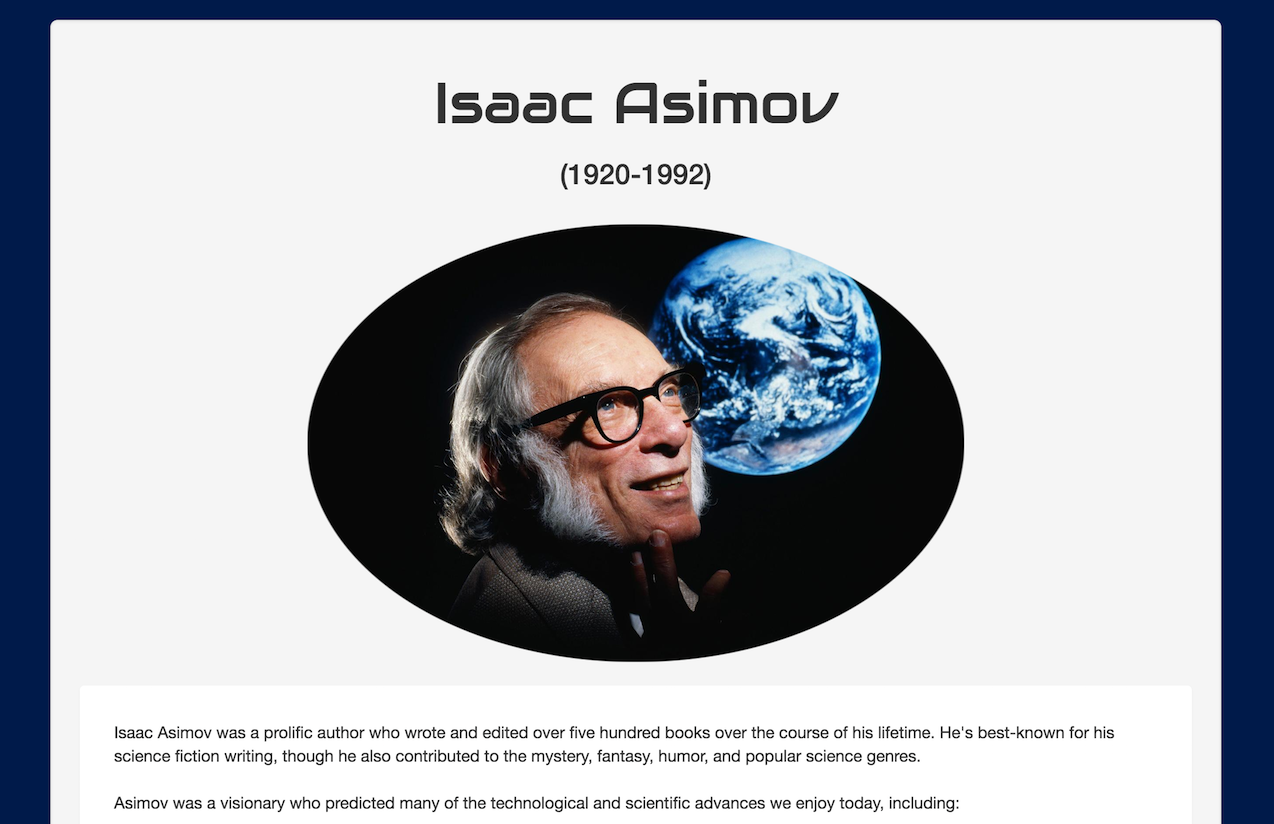
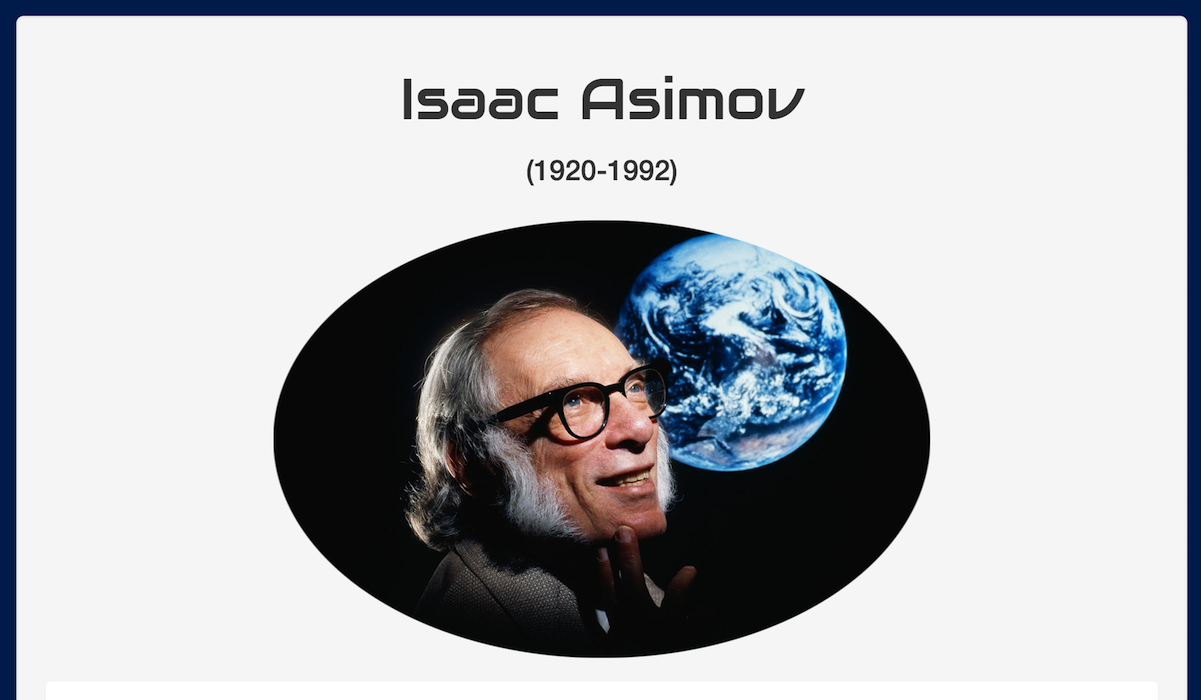
Resize images, add color scheme, implement gallery container

diff --git a/index.html b/index.html
@@ -9,32 +9,59 @@
   <!-- Styling -->
   <link type="text/css" rel="stylesheet" href="styles/normalize.css">
   <link type="text/css" rel="stylesheet" href="https://maxcdn.bootstrapcdn.com/font-awesome/4.7.0/css/font-awesome.min.css">
-  <link href="https://fonts.googleapis.com/css?family=Bree+Serif|Source+Sans+Pro:400,400i,700" rel="stylesheet">
+  <link href="https://fonts.googleapis.com/css?family=Lato:300|Dawning+of+a+New+Day|Source+Sans+Pro:400,400i,700" rel="stylesheet">
   <link type="text/css" rel="stylesheet" href="styles/style.css">
 
 </head>
 
 <body>
-  <h1>Lupe Camacho</h1>
-  <h2>Web Developer</h2>
 
-  <div class="content-wrapper">
-    <h3>About Me</h3>
-    <p>Sed ut perspiciatis unde omnis iste natus error sit voluptatem accusantium doloremque laudantium, totam rem aperiam, eaque ipsa quae ab illo inventore veritatis et quasi architecto beatae vitae dicta sunt explicabo. Nemo enim ipsam voluptatem quia voluptas sit aspernatur aut odit aut fugit, sed quia consequuntur magni dolores eos qui ratione voluptatem sequi nesciunt. Neque porro quisquam est, qui dolorem ipsum quia dolor sit amet, consectetur, adipisci velit, sed quia non numquam eius modi tempora incidunt ut labore et dolore magnam aliquam quaerat voluptatem. </p>
-
-    <p>Ut enim ad minima veniam, quis nostrum exercitationem ullam corporis suscipit laboriosam, nisi ut aliquid ex ea commodi consequatur? Quis autem vel eum iure reprehenderit qui in ea voluptate velit esse quam nihil molestiae consequatur, vel illum qui dolorem eum fugiat quo voluptas nulla pariatur?</p>
-  </div>
-  <h3>Portfolio</h3>
-  <img src="images/asimov_tribute.png">
-  <img src="images/google_rebuild.png">
-  <img src="images/weather_api.png">
-  <img src="images/wilderband.png">
+  <div class="section_odd">
+    <h1>Lupe Camacho</h1>
+    <h2>web developer</h2>
   </div>
 
-  <h3>Contact</h3>
-  <i class="fa fa-github" aria-hidden="true"></i>
-  <i class="fa fa-linkedin-square" aria-hidden="true"></i>
-  <i class="fa fa-envelope" aria-hidden="true"></i>
+  <div class="section_even">
+    <div class="content-wrapper">
+      <h3>About Me</h3>
+      <p><strong>Hi!</strong></p>
+      <p>I'm a self-taught web developer from Portland, OR.</p>
+      <p>Sed ut perspiciatis unde omnis iste natus error sit voluptatem accusantium doloremque laudantium, totam rem aperiam, eaque ipsa quae ab illo inventore veritatis et quasi architecto beatae vitae dicta sunt explicabo. Nemo enim ipsam voluptatem quia voluptas sit aspernatur aut odit aut fugit, sed quia consequuntur magni dolores eos qui ratione voluptatem sequi nesciunt. Neque porro quisquam est, qui dolorem ipsum quia dolor sit amet, consectetur, adipisci velit, sed quia non numquam eius modi tempora incidunt ut labore et dolore magnam aliquam quaerat voluptatem. </p>
+
+      <p>Ut enim ad minima veniam, quis nostrum exercitationem ullam corporis suscipit laboriosam, nisi ut aliquid ex ea commodi consequatur? Quis autem vel eum iure reprehenderit qui in ea voluptate velit esse quam nihil molestiae consequatur, vel illum qui dolorem eum fugiat quo voluptas nulla pariatur?</p>
+    </div>
+  </div>
+
+  <div class="section_odd">
+    <div class="content-wrapper">
+      <h3>Portfolio</h3>
+      <div class="gallery">
+
+        <div class="gallery-object">
+          <img src="images/asimov_tribute.png">
+        </div>
+
+        <div class="gallery-object">
+          <img src="images/google_rebuild.png">
+        </div>
+
+        <div class="gallery-object">
+          <img src="images/weather_api.png">
+        </div>
+
+        <div class="gallery-object">
+          <img src="images/wilderband.png">
+        </div>
+      </div>
+    </div>
+  </div>
+
+  <div class="section_even">
+    <h3>Contact</h3>
+    <i class="fa fa-github" aria-hidden="true"></i>
+    <i class="fa fa-linkedin-square" aria-hidden="true"></i>
+    <i class="fa fa-envelope" aria-hidden="true"></i>
+  </div>
 
 </body>
 </html>

diff --git a/styles/style.css b/styles/style.css
@@ -4,11 +4,18 @@
 
 body {
   text-align: center;
+  font-family: 'Source Sans Pro', sans-serif;
 }
 
 .content-wrapper {
   margin: 0 auto;
-  max-width: 600px;
+  max-width: 650px;
+  width: 80%;
+}
+
+.section_odd,
+.section_even {
+  padding: 2em 0;
 }
 
 
@@ -16,33 +23,55 @@ body {
  Typography
  **********/
 h1 {
-  font-size: 1.6em
+  font-size: 3em;
+  font-family: 'Dawning of a New Day', cursive;
 }
 
 h2 {
+  font-size: 1.7em;
+  font-family: 'Lato', sans-serif;
+}
+
+h3 {
   font-size: 1.5em;
 }
 
-h3 {
-  font-size: 1.4em;
-}
-
-h1,
-h2,
-h3 {
-  font-family: 'Bree Serif', serif;
-}
-
 p {
-  font-family: 'Source Sans Pro', sans-serif;
   font-size: 1.2em;
 }
+
+.fa {
+  font-size: 3em;
+  padding: 0 .5em;
+  color: #333;
+}
+
+/**********
+ Color Scheme
+ **********/
+
+ .section_odd {
+   background-color: #E0EBE8;
+ }
+
+ h1,
+ h2 {
+   color: #4AB19A;
+ }
+
+ .fa:hover,
+ .fa:focus {
+   color: #7DCC93;
+ }
 
 /**********
  Multimedia
  **********/
 
  img {
-   
-   max-width: 40em;
+   width: 100%;
+ }
+
+ .gallery-object {
+   display: inline-block;
  }
